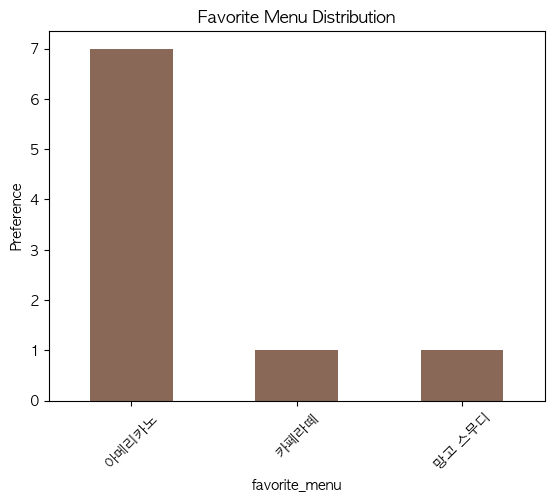
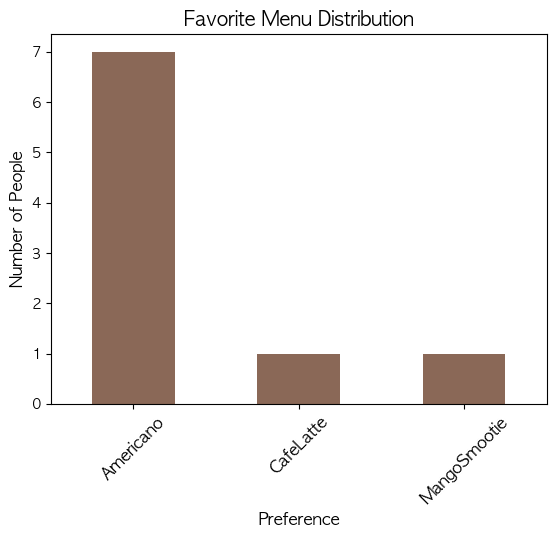
font size, cafe menu language

diff --git a/dataAnalysis.py b/dataAnalysis.py
@@ -367,7 +367,7 @@ def generate_busiest_and_least_busy_times():
             f"{int(row['hour'])}o'clock", 
             ha='center', 
             va='bottom', 
-            fontsize=10
+            fontsize=12
         )
 
     # 가장 한가한 시간대
@@ -384,6 +384,7 @@ def generate_busiest_and_least_busy_times():
             bbox=dict(facecolor='none', edgecolor='none', alpha=0.7)  # 텍스트 배경 추가
         )
     plt.title('Busiest and Calmest Time Periods by Day of the Week', fontsize=14)
+    plt.xticks(fontsize=12)
     plt.xlabel('Week', fontsize=12)
     plt.ylabel('Congestion', fontsize=12)
     plt.ylim(0, data['predicted_people'].max() + 2) 
@@ -398,6 +399,7 @@ def generate_busiest_and_least_busy_times():
     plt.figure(figsize=(10, 6))
     plt.bar(average_congestion['weekday_korean'], average_congestion['predicted_people'], color='#2E8465', label='average_congestion')
     plt.title('Average Congestion by Day of the Week', fontsize=14)
+    plt.xticks(fontsize=12)
     plt.xlabel('Week', fontsize=12)
     plt.ylabel('Congestion', fontsize=12)
     plt.ylim(0, data['predicted_people'].max() + 2) 
@@ -443,8 +445,10 @@ def visualize_favorites_by_store():
         # 성별 분포
         gender_counts = matched_survey_data['gender'].value_counts()
         gender_counts.plot(kind='bar', color=['lightpink', 'skyblue'], rot=0, title='Gender Distribution')
-        plt.xticks(ticks=range(len(gender_counts)), labels=['Female', 'Male'])
-        plt.ylabel('Number of People')
+        plt.title('Gender Distribution', fontsize=14)  # 제목 폰트 크기 설정
+        plt.xlabel('Gender', fontsize=12)  # x축 폰트 크기 설정
+        plt.ylabel('Number of People', fontsize=12)  # y축 폰트 크기 설정
+        plt.xticks(ticks=range(len(gender_counts)), labels=['Female', 'Male'], fontsize = 12)
         gender_path = os.path.join(STATIC_FOLDER, 'gender_distribution_target_store.png')
         plt.savefig(gender_path)
         plt.close()
@@ -456,7 +460,10 @@ def visualize_favorites_by_store():
         age_counts = matched_survey_data['age_group'].value_counts().sort_index()
         age_counts.plot(kind='bar', color='#e38a6d', rot=0, title='Age Distribution')
         plt.rc('font', family='AppleGothic')
-        plt.ylabel('Number of People')
+        plt.xticks(fontsize=12)
+        plt.title('Age Distribution', fontsize=14)  # 제목 폰트 크기 설정
+        plt.xlabel('Age', fontsize=12)  # x축 폰트 크기 설정
+        plt.ylabel('Number of People', fontsize=12)  # y축 폰트 크기 설정
         age_path = os.path.join(STATIC_FOLDER, 'age_distribution_target_store.png')
         plt.savefig(age_path)
         plt.close()
@@ -464,8 +471,11 @@ def visualize_favorites_by_store():
         # 선호 메뉴 분포
         favorite_menu_counts = matched_survey_data['favorite_menu'].value_counts()
         favorite_menu_counts.plot(kind='bar', color='#8a6857', rot=45, title='Favorite Menu Distribution')
-        plt.ylabel('Preference')
         menu_path = os.path.join(STATIC_FOLDER, 'favorite_menu_distribution_target_store.png')
+        plt.xticks(fontsize=12)
+        plt.title('Favorite Menu Distribution', fontsize=14)  # 제목 폰트 크기 설정
+        plt.xlabel('Preference', fontsize=12)  # x축 폰트 크기 설정
+        plt.ylabel('Number of People', fontsize=12)  # y축 폰트 크기 설정
         plt.savefig(menu_path, bbox_inches='tight')
         plt.close()
         
